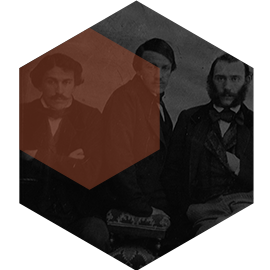
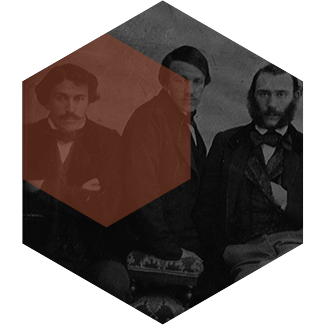
Resize Family

diff --git a/InteractiveTable/Pages/Family.xaml b/InteractiveTable/Pages/Family.xaml
@@ -4,18 +4,23 @@
       xmlns:mc="http://schemas.openxmlformats.org/markup-compatibility/2006" 
       xmlns:d="http://schemas.microsoft.com/expression/blend/2008" 
       mc:Ignorable="d" 
-      d:DesignHeight="300" d:DesignWidth="300" Width="1600" Height="900">
+      d:DesignHeight="1920" d:DesignWidth="1080" Width="1920" Height="1080">
     <Canvas>
-        <Button x:Name="back_button" Template="{DynamicResource BackButtonTemplate}" Click="Back_Button_Click" Canvas.Left="60" Canvas.Top="795"/>
+        <Button x:Name="back_button" Template="{DynamicResource BackButtonTemplate}" Click="Back_Button_Click" Canvas.Left="75" Canvas.Top="955" FocusVisualStyle="{x:Null}"/>
 
-        <Button x:Name="father_button" Template="{DynamicResource FatherButtonTemplate}" Content="/InteractiveTable;component/Images/Family/Father.png" Click="Father_Button_Click"  Width="450" Height="450" Padding="30,0" Canvas.Left="370" Canvas.Top="125"/>
-        <Button x:Name="mather_button" Template="{DynamicResource MatherButtonTemplate}" Content="/InteractiveTable;component/Images/Family/Mather.png" Click="Mather_Button_Click"  Width="450" Height="450" Padding="30,0" Canvas.Left="780" Canvas.Top="105"/>
+        <Button x:Name="father_button" Template="{DynamicResource FatherButtonTemplate}" Content="/InteractiveTable;component/Images/Family/Father.png" Click="Father_Button_Click"
+                Width="540" Height="540" Padding="34,0" Canvas.Left="445" Canvas.Top="150" FocusVisualStyle="{x:Null}"/>
 
-        <Button x:Name="auntie_button" Template="{DynamicResource HexagonButtonTemplate}" Content="/InteractiveTable;component/Images/Family/Auntie.png" Tag="{DynamicResource f_Auntie}" MinWidth="154"
-                FontFamily="/InteractiveTable;component/Fonts/#Basil Bold"  FontSize="24" Foreground="White" Click="Aunti_Button_Click"  Width="270" Height="270" Padding="15,0" Canvas.Left="125" Canvas.Top="260"/>
-        <Button x:Name="brother_sister_button" Template="{DynamicResource HexagonButtonTemplate}" Content="/InteractiveTable;component/Images/Family/BrothersSisters.png" Tag="{DynamicResource f_BrothersSisters}" MinWidth="120"
-                FontFamily="/InteractiveTable;component/Fonts/#Basil Bold"  FontSize="24" Foreground="White" Click="Brother_Sister_Button_Click"  Width="270" Height="270" Padding="15,0" Canvas.Left="1200" Canvas.Top="235"/>
-        <Button x:Name="wife_children_button" Template="{DynamicResource HexagonButtonTemplate}" Content="/InteractiveTable;component/Images/Family/WifeChildren.png" Tag="{DynamicResource f_WifeChildren}" MinWidth="120"
-                FontFamily="/InteractiveTable;component/Fonts/#Basil Bold"  FontSize="32" Foreground="White" Click="Wife_Children_Button_Click"  Width="330" Height="330" Padding="15,0" Canvas.Left="650" Canvas.Top="470"/>
+        <Button x:Name="mather_button" Template="{DynamicResource MatherButtonTemplate}" Content="/InteractiveTable;component/Images/Family/Mather.png" Click="Mather_Button_Click"
+                Width="540" Height="540" Padding="34,0" Canvas.Left="935" Canvas.Top="125" FocusVisualStyle="{x:Null}"/>
+
+        <Button x:Name="auntie_button" Template="{DynamicResource HexagonButtonTemplate}" Content="/InteractiveTable;component/Images/Family/Auntie.png" Tag="{DynamicResource f_Auntie}" FocusVisualStyle="{x:Null}" MinWidth="192"
+                FontFamily="/InteractiveTable;component/Fonts/#Basil Bold"  FontSize="30" Foreground="White" Click="Aunti_Button_Click"  Width="326" Height="326" Padding="20,0" Canvas.Left="155" Canvas.Top="310"/>
+
+        <Button x:Name="brother_sister_button" Template="{DynamicResource HexagonButtonTemplate}" Content="/InteractiveTable;component/Images/Family/BrothersSisters.png" Tag="{DynamicResource f_BrothersSisters}" FocusVisualStyle="{x:Null}" MinWidth="150"
+                FontFamily="/InteractiveTable;component/Fonts/#Basil Bold"  FontSize="30" Foreground="White" Click="Brother_Sister_Button_Click"  Width="326" Height="326" Padding="20,0" Canvas.Left="1440" Canvas.Top="285"/>
+
+        <Button x:Name="wife_children_button" Template="{DynamicResource HexagonButtonTemplate}" Content="/InteractiveTable;component/Images/Family/WifeChildren.png" Tag="{DynamicResource f_WifeChildren}" FocusVisualStyle="{x:Null}" MinWidth="135"
+                FontFamily="/InteractiveTable;component/Fonts/#Basil Bold"  FontSize="36" Foreground="White" Click="Wife_Children_Button_Click"  Width="396" Height="396" Padding="20,0" Canvas.Left="780" Canvas.Top="565"/>
     </Canvas>
 </Page>

diff --git a/InteractiveTable/Resource/ResourceDictionaryTemplate.xaml b/InteractiveTable/Resource/ResourceDictionaryTemplate.xaml
@@ -146,9 +146,9 @@
 					<ImageBrush ImageSource="{Binding Content, RelativeSource={RelativeSource TemplatedParent}}" Stretch="UniformToFill"/>
 				</ed:RegularPolygon.Fill>
 			</ed:RegularPolygon>
-			<TextBlock Text="{DynamicResource f_Father}" FontFamily="/InteractiveTable;component/Fonts/#Basil Bold" FontSize="24" Foreground="White"
+			<TextBlock Text="{DynamicResource f_Father}" FontFamily="/InteractiveTable;component/Fonts/#Basil Bold" FontSize="30" Foreground="White"
 				TextAlignment="Center" VerticalAlignment="Bottom" HorizontalAlignment="Center" Grid.Row="0"/>
-			<TextBlock Text="{DynamicResource f_FatherName}" TextWrapping="Wrap" FontFamily="/InteractiveTable;component/Fonts/#Basil Bold" FontSize="40" Foreground="White" MaxWidth="270"
+			<TextBlock Text="{DynamicResource f_FatherName}" TextWrapping="Wrap" FontFamily="/InteractiveTable;component/Fonts/#Basil Bold" FontSize="48" Foreground="White" MaxWidth="350"
 				TextAlignment="Center" VerticalAlignment="Center" HorizontalAlignment="Center" Grid.Row="1"/>
 		</Grid>
 	</ControlTemplate>
@@ -199,9 +199,9 @@
 					<ImageBrush ImageSource="{Binding Content, RelativeSource={RelativeSource TemplatedParent}}" Stretch="UniformToFill"/>
 				</ed:RegularPolygon.Fill>
 			</ed:RegularPolygon>
-			<TextBlock Text="{DynamicResource f_Mather}" FontFamily="/InteractiveTable;component/Fonts/#Basil Bold" FontSize="24" Foreground="White"
+			<TextBlock Text="{DynamicResource f_Mather}" FontFamily="/InteractiveTable;component/Fonts/#Basil Bold" FontSize="30" Foreground="White"
 				TextAlignment="Center" VerticalAlignment="Bottom" HorizontalAlignment="Center" Grid.Row="0"/>
-			<TextBlock Text="{DynamicResource f_MatherName}" TextWrapping="Wrap" FontFamily="/InteractiveTable;component/Fonts/#Basil Bold" FontSize="40" Foreground="White" MaxWidth="270"
+			<TextBlock Text="{DynamicResource f_MatherName}" TextWrapping="Wrap" FontFamily="/InteractiveTable;component/Fonts/#Basil Bold" FontSize="48" Foreground="White" MaxWidth="350"
 				TextAlignment="Center" VerticalAlignment="Center" HorizontalAlignment="Center" Grid.Row="1"/>
 		</Grid>
 	</ControlTemplate>
